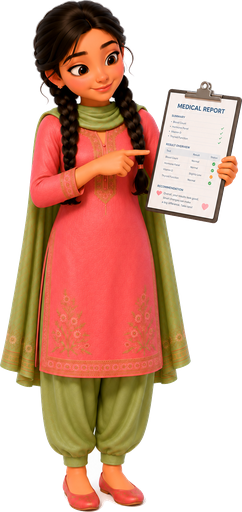
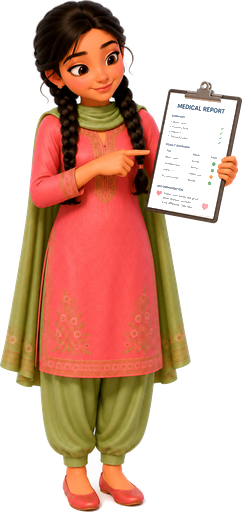
Improve Bangla voice guidance and accessibility

Changed region(s): [[0.6074, 0.2188, 0.9256, 0.4375], [0.781, 0.1875, 0.9256, 0.2188]]

diff --git a/lib/server/tts.ts b/lib/server/tts.ts
@@ -1,13 +1,40 @@
-// High-quality read-aloud with GOOGLE's neural TTS (Gemini TTS), using the same GOOGLE_API_KEY
-// as the rest of the app — NO OpenAI. The browser's built-in SpeechSynthesis is device-dependent
-// and for Bangla often sounds robotic/"trembling"; this synthesizes a fluent, correctly-pronounced
-// voice server-side. The client uses it and falls back to the browser voice if it's unavailable.
+// High-quality read-aloud with Google's neural TTS (Gemini TTS), using the same GOOGLE_API_KEY
+// as the rest of the app. The browser's built-in SpeechSynthesis is device-dependent, so the
+// server voice is the primary path and the browser remains an offline fallback.
 
 import { geminiKeys } from "./gemma";
 
 const TTS_MODEL = process.env.SHOKHI_TTS_MODEL || "gemini-2.5-flash-preview-tts";
-// warm, gentle female voices; Kore = calm, Aoede = bright. Configurable.
-const VOICE = process.env.SHOKHI_TTS_VOICE || "Kore";
+// Achird is friendly and conversational; override it when testing another supported voice.
+const VOICE = process.env.SHOKHI_TTS_VOICE || "Achird";
+
+function cleanTranscript(text: string): string {
+  return text
+    .replace(/\[([^\]]+)\]\([^)]+\)/g, "$1")
+    .replace(/https?:\/\/\S+/g, "")
+    .replace(/[\*_#>`~]/g, "")
+    .replace(/[•▪◦·]/g, " ")
+    .replace(/[\u{1F000}-\u{1FAFF}\u{2600}-\u{27BF}\u{2190}-\u{21FF}\u{FE0F}\u{200D}]/gu, "")
+    .replace(/\s+/g, " ")
+    .trim();
+}
+
+function promptFor(text: string, lang: "bn" | "en"): string {
+  const transcript = cleanTranscript(text).slice(0, 1500);
+  if (lang === "bn") {
+    return [
+      "Audio profile: a warm, natural adult woman from Bangladesh who is a native Bangla speaker.",
+      "Scene: she is speaking directly and kindly to a woman who may not be able to read.",
+      "Director's notes: use natural Bangladeshi Bengali pronunciation (bn-BD), not an English or Indian Bengali accent. Speak conversationally, clearly, gently, and unhurriedly, with short natural pauses. Sound human and reassuring, not like a navigation system or a newsreader. Do not translate, summarize, or add words.",
+      `Transcript: ${transcript}`,
+    ].join("\n");
+  }
+  return [
+    "Audio profile: a warm, natural adult woman speaking clearly and kindly.",
+    "Director's notes: conversational pace, gentle pauses, reassuring tone, never robotic or like a navigation system. Do not translate, summarize, or add words.",
+    `Transcript: ${transcript}`,
+  ].join("\n");
+}
 
 /** Wrap raw signed-16-bit little-endian PCM in a minimal WAV header so browsers can play it. */
 function wav(pcm: Buffer, sampleRate: number, channels = 1, bits = 16): Buffer {
@@ -36,8 +63,7 @@ export async function synthesize(text: string, lang: "bn" | "en"): Promise<Buffe
   if (!keys.length) throw new Error("No GOOGLE_API_KEY for TTS.");
   const { GoogleGenAI } = await import("@google/genai");
 
-  const style = lang === "bn" ? "শান্ত, যত্নশীল ও স্পষ্ট কণ্ঠে ধীরে ধীরে বলুন: " : "Say this warmly, clearly and calmly: ";
-  const prompt = style + text.slice(0, 1500);
+  const prompt = promptFor(text, lang);
 
   let lastErr: unknown;
   for (const key of keys) {

diff --git a/app/wellness/page.tsx b/app/wellness/page.tsx
@@ -6,6 +6,7 @@ import PageIntro from "@/components/PageIntro";
 import WeeklyPlan from "@/components/WeeklyPlan";
 import MoveVisual from "@/components/MoveVisual";
 import Icon from "@/components/Icon";
+import SpeakButton from "@/components/SpeakButton";
 import { useLang } from "@/components/LanguageProvider";
 import { getWellness } from "@/lib/api";
 import type { Wellness } from "@/lib/types";
@@ -30,9 +31,10 @@ export default function WellnessPage() {
 
       {w && (
         <div className="mt-8 space-y-10">
-          <p className="mx-auto max-w-2xl text-center text-[15px] leading-relaxed text-plum/70">
-            {pick(w, "intro")}
-          </p>
+          <div className="mx-auto flex max-w-2xl items-start justify-center gap-3 text-center">
+            <p className="text-[15px] leading-relaxed text-plum/70">{pick(w, "intro")}</p>
+            <SpeakButton text={pick(w, "intro")} size="sm" />
+          </div>
 
           {/* personalized 7-day plan */}
           <WeeklyPlan />
@@ -43,7 +45,10 @@ export default function WellnessPage() {
             <div className="mt-4 grid gap-4 sm:grid-cols-2">
               {w.phases.map((p) => (
                 <div key={p.id} className="rounded-2xl bg-surface/80 p-5 ring-1 ring-rose-soft">
-                  <p className="font-display text-base font-bold text-plum">{pick(p, "label")}</p>
+                  <div className="flex items-start justify-between gap-2">
+                    <p className="font-display text-base font-bold text-plum">{pick(p, "label")}</p>
+                    <SpeakButton text={`${pick(p, "label")}. ${t("wellness.move")}: ${pick(p, "move")}. ${t("wellness.food")}: ${pick(p, "food")}`} size="sm" />
+                  </div>
                   <p className="text-xs text-plum/45">{pick(p, "days")}</p>
                   <p className="mt-3 text-sm leading-relaxed text-plum/80">
                     <span className="font-semibold text-rose-deep">{t("wellness.move")}</span> — {pick(p, "move")}
@@ -62,7 +67,10 @@ export default function WellnessPage() {
             <div className="mt-4 grid gap-4 sm:grid-cols-2">
               {w.conditions.map((c) => (
                 <div key={c.id} className="rounded-2xl bg-blush/50 p-5 ring-1 ring-rose-soft">
-                  <p className="font-display text-base font-bold text-plum">{pick(c, "label")}</p>
+                  <div className="flex items-start justify-between gap-2">
+                    <p className="font-display text-base font-bold text-plum">{pick(c, "label")}</p>
+                    <SpeakButton text={`${pick(c, "label")}. ${t("wellness.move")}: ${pick(c, "move")}. ${t("wellness.food")}: ${pick(c, "food")}. ${pick(c, "note")}`} size="sm" />
+                  </div>
                   <p className="mt-3 text-sm leading-relaxed text-plum/80">
                     <span className="font-semibold text-rose-deep">{t("wellness.move")}</span> — {pick(c, "move")}
                   </p>

diff --git a/components/WellnessTip.tsx b/components/WellnessTip.tsx
@@ -6,6 +6,7 @@ import { getWellness } from "@/lib/api";
 import type { Wellness } from "@/lib/types";
 import { useLang } from "./LanguageProvider";
 import { currentPhase, wellnessConditionIds } from "@/lib/wellness";
+import SpeakButton from "./SpeakButton";
 
 /**
  * Personalised wellness tip on the tracker: estimates the current cycle phase from the
@@ -30,14 +31,20 @@ export default function WellnessTip() {
   if (!w) return null;
   const phase = phaseId ? w.phases.find((p) => p.id === phaseId) : null;
   const cond = condIds.length ? w.conditions.find((c) => c.id === condIds[0]) : null;
+  const speechText = phase
+    ? `${pick(phase, "label")}. ${t("wellness.move")}: ${pick(phase, "move")}. ${t("wellness.food")}: ${pick(phase, "food")}.${cond ? ` ${pick(cond, "label")}: ${pick(cond, "move")}.` : ""}`
+    : t("wellness.tipNoData");
 
   return (
     <div className="mt-4 rounded-2xl bg-sage-soft/60 p-4 ring-1 ring-rose-soft">
       <div className="flex items-center justify-between gap-2">
         <h2 className="text-base font-bold text-sage-deep">{t("wellness.tipTitle")}</h2>
-        <Link href="/wellness" className="shrink-0 text-xs font-semibold text-rose hover:underline">
-          {t("wellness.seeAll")}
-        </Link>
+        <div className="flex items-center gap-2">
+          <SpeakButton text={speechText} size="sm" />
+          <Link href="/wellness" className="shrink-0 text-xs font-semibold text-rose hover:underline">
+            {t("wellness.seeAll")}
+          </Link>
+        </div>
       </div>
 
       {phase ? (

diff --git a/app/faq/page.tsx b/app/faq/page.tsx
@@ -3,6 +3,7 @@
 import Link from "next/link";
 import PageIntro from "@/components/PageIntro";
 import { useLang } from "@/components/LanguageProvider";
+import SpeakButton from "@/components/SpeakButton";
 
 // Frequently asked questions about Shokhi. Bilingual and self-contained (like the
 // About page) — the health *content* lives in knowledge.json, but these are questions
@@ -96,9 +97,15 @@ export default function FaqPage() {
                 </svg>
               </span>
             </summary>
-            <p className="mt-3 text-sm leading-relaxed text-plum/70">
-              {lang === "en" ? f.a_en : f.a_bn}
-            </p>
+            <div className="mt-3 flex items-start gap-3">
+              <p className="flex-1 text-sm leading-relaxed text-plum/70">
+                {lang === "en" ? f.a_en : f.a_bn}
+              </p>
+              <SpeakButton
+                text={`${lang === "en" ? f.q_en : f.q_bn}. ${lang === "en" ? f.a_en : f.a_bn}`}
+                size="sm"
+              />
+            </div>
           </details>
         ))}
       </section>

diff --git a/components/PadReminder.tsx b/components/PadReminder.tsx
@@ -3,6 +3,7 @@
 import { useEffect, useState } from "react";
 import { useLang } from "./LanguageProvider";
 import Icon from "./Icon";
+import SpeakButton from "./SpeakButton";
 
 const STORE_KEY = "shokhi_pad_reminder";
 const BN = "০১২৩৪৫৬৭৮৯";
@@ -81,7 +82,10 @@ export default function PadReminder() {
 
   return (
     <div className="mt-4 rounded-2xl bg-surface/70 p-4 ring-1 ring-rose-soft">
-      <h2 className="flex items-center gap-2 text-base font-bold text-rose-deep"><Icon name="clock" size={18} /> {t("pad.title")}</h2>
+      <div className="flex items-center justify-between gap-2">
+        <h2 className="flex items-center gap-2 text-base font-bold text-rose-deep"><Icon name="clock" size={18} /> {t("pad.title")}</h2>
+        <SpeakButton text={`${t("pad.title")}. ${t("pad.intro")} ${t("pad.footer")}`} size="sm" />
+      </div>
       <p className="mt-1 text-sm text-rose-deep/70">{t("pad.intro")}</p>
 
       {!active && !done && (

diff --git a/app/tracker/today/page.tsx b/app/tracker/today/page.tsx
@@ -14,7 +14,7 @@ export default function TrackerTodayPage() {
         {lang === "en" ? "← Tracker" : "← ট্র্যাকার"}
       </Link>
       <div className="mt-4">
-        <PageIntro icon="✨" title={t("nav.tracker.today")} sub={lang === "en" ? "A gentle plan for today, made just for you." : "আজকের জন্য একটি মৃদু পরামর্শ, শুধু আপনার জন্য।"} variant="today" side="left" size={140} />
+        <PageIntro icon="✨" title={t("nav.tracker.today")} sub={lang === "en" ? "A gentle plan for today, made just for you." : "আজকের জন্য একটি মৃদু পরামর্শ, শুধু আপনার জন্য।"} variant="today" side="left" size={170} />
       </div>
       <div className="mt-8 space-y-5">
         <PersonalToday />

diff --git a/README.md b/README.md
@@ -21,53 +21,11 @@ You describe how you feel — by **typing or speaking in Bangla** — and Shokhi
 
 ---
 
-## 🧭 Why Shokhi? The gap in what already exists
+## 🧭 Shokhi's focus
 
-The *idea* of digital menstrual health in Bangladesh is not new — but the existing tools
-leave the women who need help most **unserved**. Shokhi is a different **implementation**
-that targets exactly those gaps.
-
-### Limitations of existing solutions
-
-**Ananya (WaterAid Bangladesh)** — a period **tracker** + cycle prediction + static
-informational articles (Android app, Bangla/English):
-- ❌ **No AI / no reasoning** — canned, one-size-fits-all content; it can't understand or
-  respond to a woman's actual symptom description.
-- ❌ **Requires a smartphone + literacy** — you must be able to install an Android app and
-  **read** articles. This excludes low-literacy and rural women — the highest-need group.
-- ❌ **No clinical triage** — it cannot tell a dangerous red flag from normal cramps.
-- ❌ **No PCOS / endometriosis / PMS support** — it is a tracker, not a health advisor.
-- ❌ **No voice** — nothing for women who cannot read text.
-
-**Probahini (WaterAid + Acme AI)** — a messenger-based **FAQ chatbot** (Bangla/English):
-- ❌ **Scripted, rule-tree conversation** — guided FAQs and myth-busting, but it does not
-  *reason* over free-form, messy, real-life symptom descriptions.
-- ❌ **Still needs a smartphone, a messaging app, and the ability to read & type.**
-- ❌ **No personalized triage** — no "go to hospital now" vs. "safe self-care" decisioning.
-
-**The research is blunt about who gets left out:**
-- Rural and less-educated women — who are more likely to be **illiterate** — often have only
-  **basic button phones** and **cannot read SMS or app text**; studies find they need
-  **voice, in Bangla, ideally via a hotline**.
-- **PCOS prevalence in Bangladesh is ~51%**, higher in rural areas, with 50–60% reporting
-  depression / anxiety / insomnia — yet **no existing app offers PCOS/endometriosis
-  symptom triage**.
-
-### How Shokhi is different (the ownable implementation)
-
-| | Ananya | Probahini | **Shokhi** |
-|---|:---:|:---:|:---:|
-| Understands free-form Bangla symptoms | ❌ | ⚠ scripted | ✅ **Gemma 4 reasoning** |
-| Clinical red-flag / emergency triage | ❌ | ❌ | ✅ **deterministic safety layer** |
-| PCOS / PMS / endometriosis guidance | ❌ | ❌ | ✅ |
-| Voice-first (speak & hear Bangla) | ❌ | ❌ | ✅ (+ IVR-hotline roadmap) |
-| Serves low-literacy / rural women | ❌ | ❌ | ✅ **designed for them first** |
-| Works without installing an app | ❌ | ⚠ | ✅ web / any browser |
-| Adapts across urban teen → rural woman | ❌ | ❌ | ✅ |
-
-*Sources: WaterAid Bangladesh (Ananya / Probahini); Heliyon voice-bot study on marginalized
-women's healthcare access; Reproductive Health (BMC) on mobile-phone use among low-income
-women; medRxiv 2025 on PCOS prevalence & psychological distress in Bangladesh.*
+Shokhi is designed as a warm, Bangla-first health companion for menstrual health, PCOS,
+PMS, and endometriosis, with voice input, low-literacy guidance, and a deterministic safety
+layer beneath the AI responses.
 
 ---
 
@@ -131,6 +89,28 @@ Chrome, unlike the browser's built-in Web Speech API.
 Other supporting (non-generative, allowed) tools: the RAG corpus + embeddings, a knowledge
 base of red flags / conditions / myths, and the two logistic-regression risk classifiers.
 
+## 🔁 Three-key API fallback (reliability by design)
+
+Hosted AI calls rotate through up to three Google AI Studio keys. If a key hits a quota,
+permission, rate-limit, or transient service error, Shokhi automatically tries the next key:
+
+```
+GOOGLE_API_KEY       (#1)
+        │ quota / access / service error
+        ▼
+GOOGLE_API_KEY_2     (#2)
+        │ quota / access / service error
+        ▼
+GOOGLE_API_KEY_3     (#3)
+        │ no usable key
+        ▼
+Deterministic mock backend (no-key / offline mode)
+```
+
+The same key rotation supports Gemma text generation, speech-to-text, report-image reading,
+embeddings, and neural text-to-speech. The deterministic triage and mock backend remain
+available without any API key.
+
 ---
 
 ## 🚪 One brain, many front doors (reaching *all* women)
@@ -148,6 +128,19 @@ core* can power the web app **and** a future phone hotline. The web app already 
 identical triage runs); the planned IVR path can reuse that core behind a Twilio/Exotel phone
 number with a separate speech-to-text and text-to-speech adapter, always with a spoken
 fallback to **16263 / 999**.
+
+## 🧰 Tech Stack
+
+| Layer | Technology |
+| ----- | ---------- |
+| Frontend | Next.js 14 App Router · React 18 · TypeScript · Tailwind CSS |
+| Backend | Next.js API route handlers · serverless-compatible Node.js runtime |
+| AI | Google Gemma 4 · Gemini multimodal models for speech, report images, embeddings, and TTS |
+| Safety | Deterministic triage engine · red-flag knowledge base · emergency safety checks |
+| Supporting ML | Offline logistic-regression classifiers for PCOS and endometriosis risk signals |
+| Retrieval | Local Markdown corpus · precomputed embeddings · grounded RAG responses |
+| Testing | Vitest |
+| Deployment | Vercel |
 
 ---
 
@@ -319,7 +312,7 @@ npm run dev                          # open http://localhost:3001
 - **Without a key** the app runs on a **deterministic mock backend** — the full flow works
   offline, just with keyword-based (not real Gemma) understanding.
 - **For live Gemma 4**, put a Google AI Studio key in `.env.local` as `GOOGLE_API_KEY`
-  (optionally `GOOGLE_API_KEY_2`/`_3` for quota fallback). The server auto-selects Gemma.
+  (optionally `GOOGLE_API_KEY_2`/`_3` for three-key quota fallback). The server auto-selects Gemma.
 
 Run the **safety tests** (Vitest — verifies emergencies are never downgraded, the ML signal
 never overrides urgency, and RAG degrades gracefully):
@@ -378,7 +371,7 @@ All server-side (set in `.env.local` locally, or Vercel env vars in prod):
 | Env var | Default | Meaning |
 |---|---|---|
 | `GOOGLE_API_KEY` | — | Google AI Studio key for live Gemma 4. Absent → deterministic mock backend. |
-| `GOOGLE_API_KEY_2`, `_3` | — | Optional extra keys (other Google accounts) for automatic quota fallback. |
+| `GOOGLE_API_KEY_2`, `_3` | — | Optional second and third keys for automatic quota/access fallback. |
 | `SHOKHI_GEMMA_MODEL` | `gemma-4-26b-a4b-it` | Gemma 4 model on AI Studio (e.g. `gemma-4-31b-it`). |
 | `SHOKHI_BACKEND` | auto | Force `gemini` or `mock`. Default: `gemini` if a key is present, else `mock`. |
 | `SHOKHI_LLM_EXTRACT` | off | Optional Gemma symptom extraction; leave off for the faster deterministic intake path. |
@@ -391,7 +384,7 @@ All server-side (set in `.env.local` locally, or Vercel env vars in prod):
 The Gemma backend sits behind **one swappable interface** (`lib/server/gemma.ts` —
 today `mock` and hosted `gemini`). A **local Gemma 4** backend (e.g. via Ollama) can drop
 into that same interface with zero changes to the rest of the app — which unlocks a future
-the existing apps cannot reach:
+for offline, local health support:
 
 - **Hosted (API key) — reach the whole country over the internet.** The cloud runs Gemma 4;
   any woman opens the web link from any browser. *This is the near-term product.*
